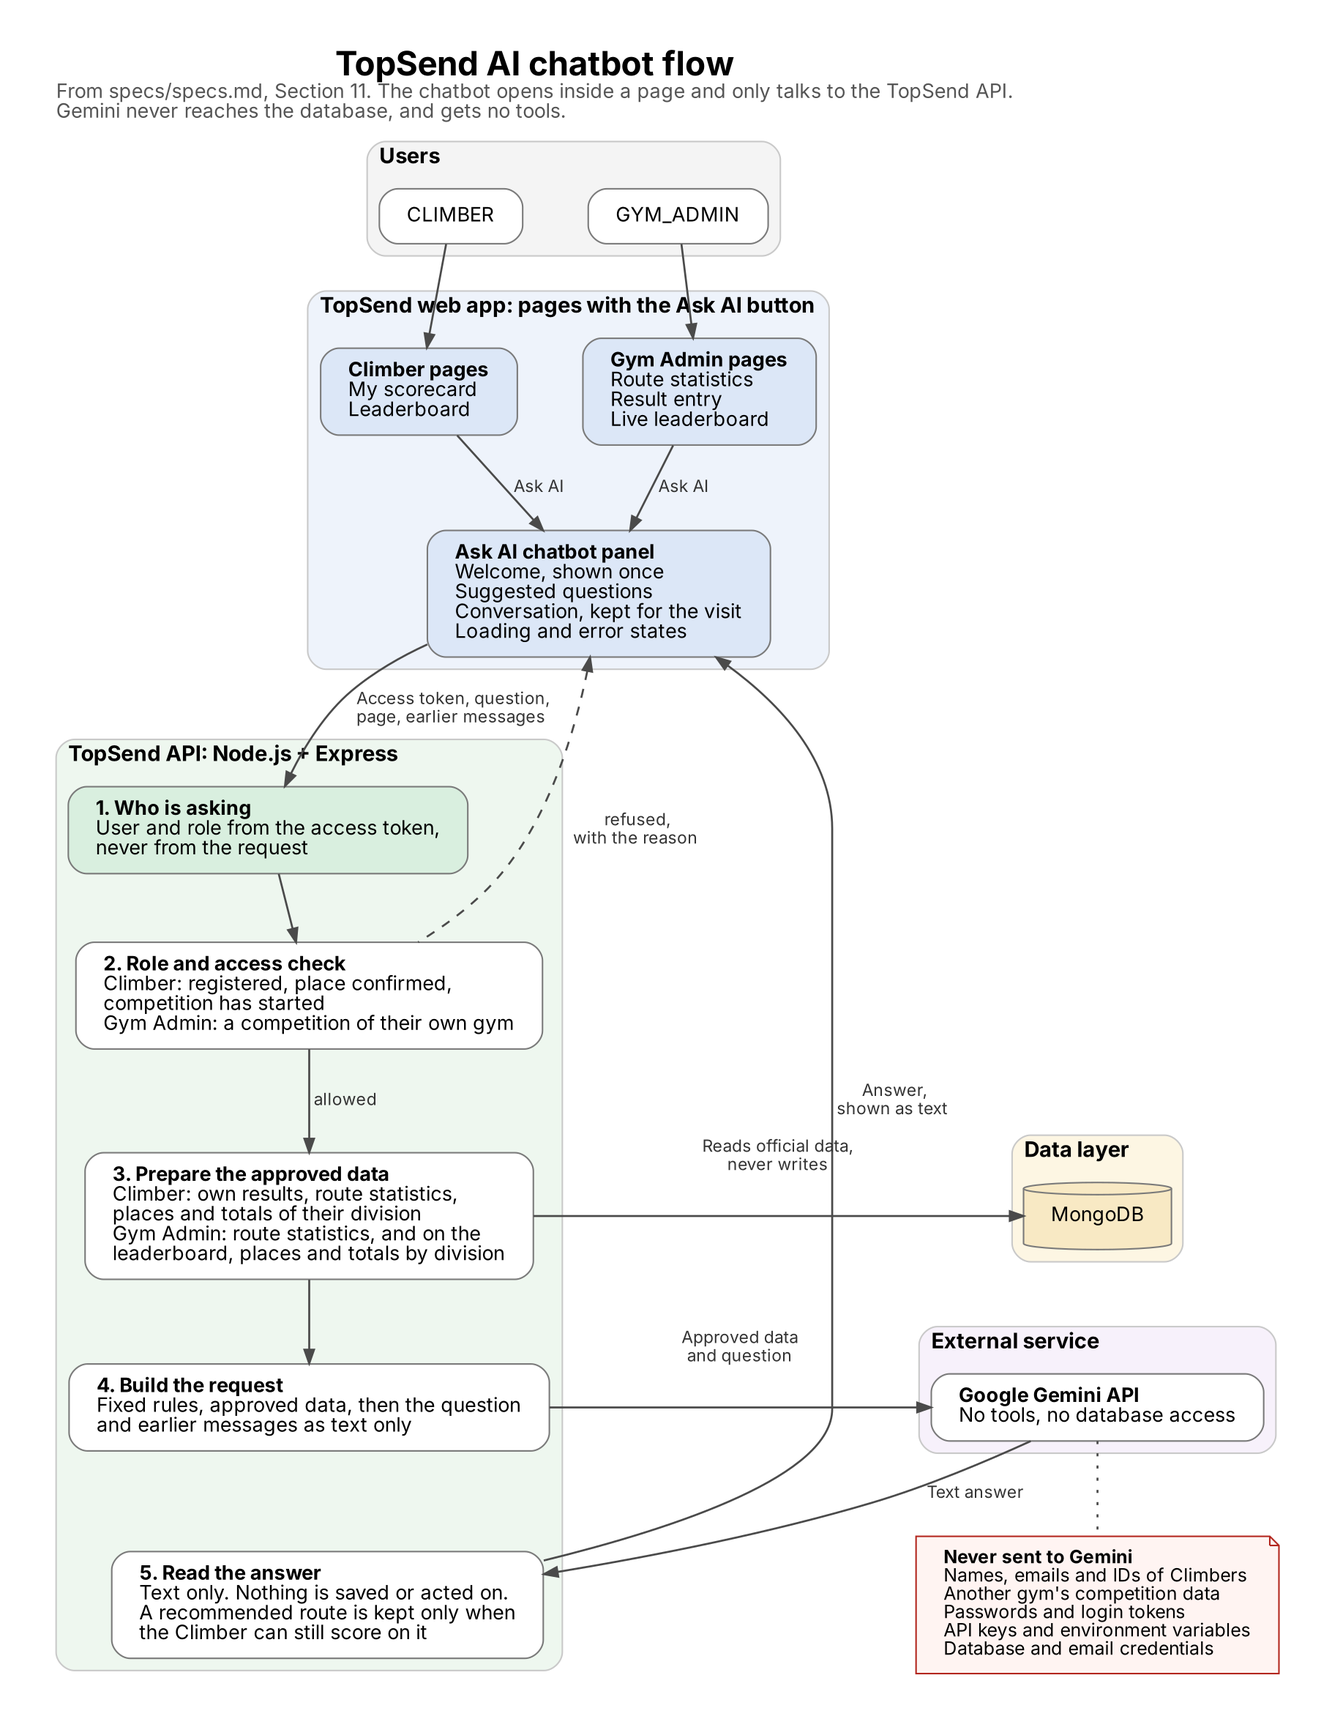
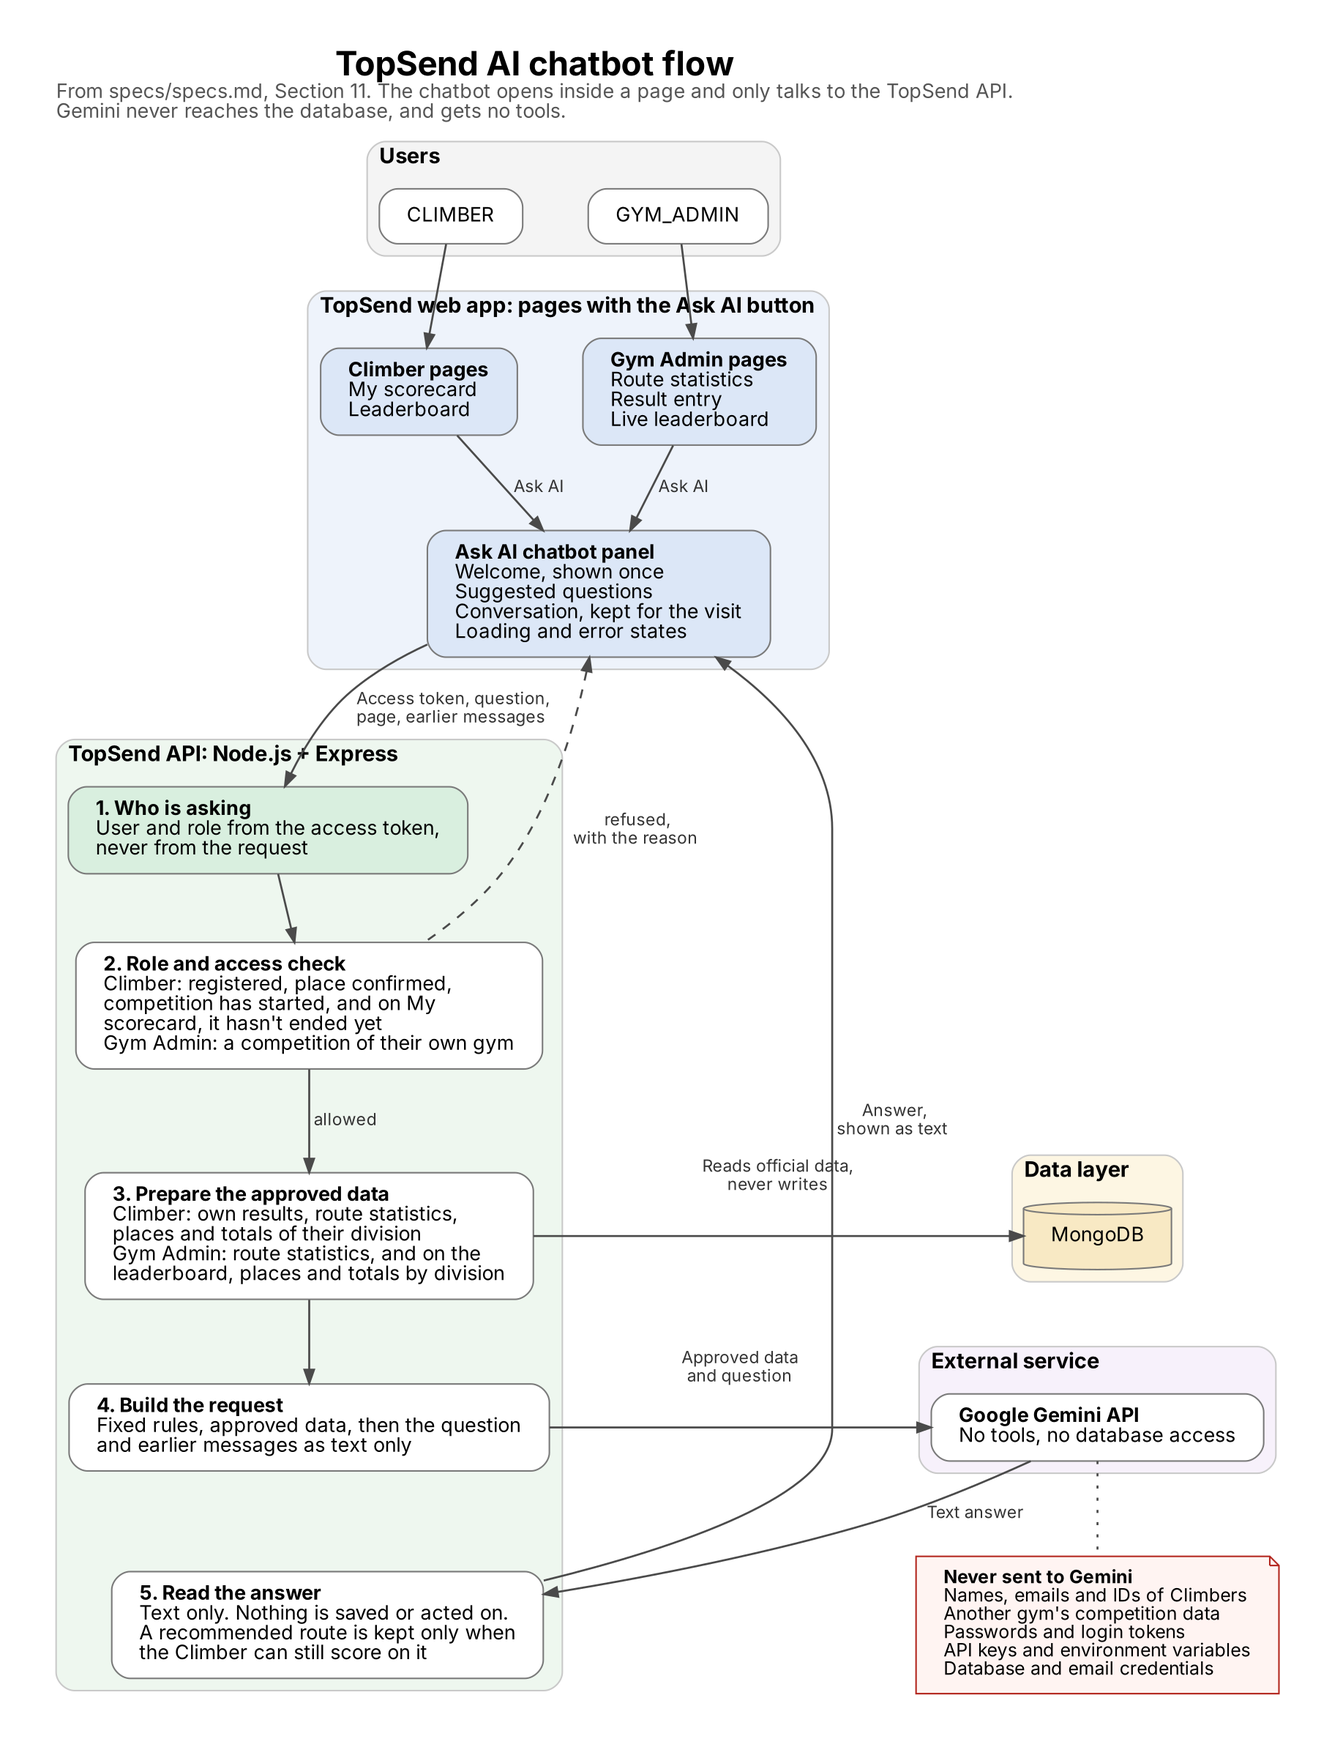
docs: name Result entry among the chatbot's pages and the end of a competition in every doc (#222)
The short lists of the chatbot's pages now include Result entry, as AC-022 does, and the README lists the chatbot with the built features instead of the planned ones. The domain rules, the domain guardrails, the personas and the AI chatbot flow now say a Climber's scorecard and its chatbot close at the end, and going back from the final leaderboard never returns to the scorecard.

diff --git a/specs/contracts/domain.md b/specs/contracts/domain.md
@@ -145,7 +145,7 @@ interface Competition {
 - `date` is a calendar date in Toronto, sent as `YYYY-MM-DD`. When a competition is created, or its date is changed, the date must be from today up to two years ahead.
 - `startTime` is the time the competition starts on its date, in Toronto time, as 24-hour `HH:mm`, such as `10:00`. Every new competition has one, and a Gym Administrator can change it. A competition saved before start times existed has none, and counts as starting at 12:00 a.m. on its date until one is set. The API also sends `startsAt`, the same moment as an ISO-8601 timestamp, so a browser in any time zone counts down to the right moment. The clocks changing in spring or fall never moves a competition's start: it stays at the time the Gym Administrator chose.
 - `endTime` is the time the competition ends on its date, in Toronto time, as 24-hour `HH:mm`, such as `18:00`, and it always comes after `startTime`. Every new competition has one, and a Gym Administrator can change it. A competition saved before end times existed has none, and counts as ending at the end of its date, 12:00 a.m. the next day, until one is set. The API also sends `endsAt`, the same moment as an ISO-8601 timestamp.
-- Until a PUBLISHED competition's start, a Climber can see its details and their registration status, and nothing else of it: their scorecard, the leaderboard, live updates, and the AI Route Assistant are refused with 409 `COMPETITION_NOT_STARTED`, and so is the public leaderboard for a Visitor. A Gym Administrator of its gym is never held back. A Climber records their own results from the start until the end time, and the server refuses them after it.
+- Until a PUBLISHED competition's start, a Climber can see its details and their registration status, and nothing else of it: their scorecard, the leaderboard, live updates, and the AI Route Assistant are refused with 409 `COMPETITION_NOT_STARTED`, and so is the public leaderboard for a Visitor. A Gym Administrator of its gym is never held back. A Climber records their own results from the start until the end time, and the server refuses them after it. From the end time their scorecard is closed too: the scorecard, its live updates, and its chatbot are refused with 409 `SCORECARD_CLOSED`, and the leaderboard shows them the final standings of every division. A CANCELLED competition's scorecard stays readable.
 - `capacity` is the maximum number of participants: a whole number from 1 to 1000, and never below the number of CONFIRMED registrations.
 - A new competition is a DRAFT with registration CLOSED. It's held at its gym, so `location` is always its gym's location, and a Gym Administrator can't change it. `createdBy` is the Gym Administrator who created it.
 - Opening registration on a DRAFT makes it PUBLISHED, so climbers can find it. Closing registration later keeps it PUBLISHED and stops new registrations.
@@ -348,8 +348,8 @@ interface LoginThrottle {
 - A non-authorized user must never observe private scorecards or competition management functions.
 - A competition with registration CLOSED, or one that is full, stays closed to further valid registrations.
 - A Climber's current location is only used for the competition search that asks for it. It's never stored, so it isn't part of any entity.
-- Before a competition's start time, a Climber sees a countdown to it, and only their registration status. The server applies the same rule to every request and live connection. While the competition is on, a Climber sees a countdown to its end time, when their scoring closes.
-- The AI Route Assistant is a chatbot inside the scorecard, leaderboard, and statistics pages. It receives the least data a page's questions need, taken from the entities above after the role and access check, and it never receives a name, an email, an ID, a credential, or anything from another gym. Its conversations are not stored, so they aren't part of any entity.
+- Before a competition's start time, a Climber sees a countdown to it, and only their registration status. The server applies the same rule to every request and live connection. While the competition is on, a Climber sees a countdown to its end time, when their scoring closes. They're warned 15 minutes and 5 minutes before it, and at the end time their scorecard closes for good and they see the final leaderboard.
+- The AI Route Assistant is a chatbot inside the scorecard, leaderboard, Route statistics, and Result entry pages. It receives the least data a page's questions need, taken from the entities above after the role and access check, and it never receives a name, an email, an ID, a credential, or anything from another gym. Its conversations are not stored, so they aren't part of any entity.
 
 ## 5. Key domain decisions
 

diff --git a/docs/Requirements/requirements.md b/docs/Requirements/requirements.md
@@ -95,7 +95,7 @@ This feature area uses competition results to calculate route statistics and pro
 
 | ID | Requirement | Related User Stories | Acceptance Conditions |
 |----|-------------|----------------------|-----------------------|
-| FR-012 | The system shall calculate route statistics from official competition results and allow Gym Administrators and Climbers to use AI-assisted features that explain available competition data and provide route recommendations, through a chatbot inside the scorecard, leaderboard, and statistics pages. | US-022, US-023, US-024, US-033 | 1. The system can calculate completion rate, average attempts, and flash rate from recorded results. 2. Gym Administrators can ask questions about route performance. 3. Climbers can ask for route recommendations based on available competition data. 4. Climbers can ask about the current point difference between their score and a target ranking. 5. AI responses use available official competition information. 6. AI cannot change official scores, results, rankings, winners, or route grades. 7. The chatbot opens on My scorecard and the leaderboard for Climbers, and on Route statistics, Result entry, and the Live leaderboard for Gym Administrators, and already knows the competition, the page, and the user's role. 8. A first-time welcome and clickable suggested questions show what can be asked. 9. AI cannot reveal another user's private information, another gym's data, passwords, tokens, API keys, or server settings, and none of them is sent to it. |
+| FR-012 | The system shall calculate route statistics from official competition results and allow Gym Administrators and Climbers to use AI-assisted features that explain available competition data and provide route recommendations, through a chatbot inside the scorecard, leaderboard, Route statistics, and Result entry pages. | US-022, US-023, US-024, US-033 | 1. The system can calculate completion rate, average attempts, and flash rate from recorded results. 2. Gym Administrators can ask questions about route performance. 3. Climbers can ask for route recommendations based on available competition data. 4. Climbers can ask about the current point difference between their score and a target ranking. 5. AI responses use available official competition information. 6. AI cannot change official scores, results, rankings, winners, or route grades. 7. The chatbot opens on My scorecard and the leaderboard for Climbers, and on Route statistics, Result entry, and the Live leaderboard for Gym Administrators, and already knows the competition, the page, and the user's role. 8. A first-time welcome and clickable suggested questions show what can be asked. 9. AI cannot reveal another user's private information, another gym's data, passwords, tokens, API keys, or server settings, and none of them is sent to it. |
 
 ---
 

diff --git a/specs/contracts/interfaces.md b/specs/contracts/interfaces.md
@@ -1209,7 +1209,7 @@ From a PUBLISHED competition's end (`endsAt`), the results are final and a Climb
 }
 ```
 
-- The page moves the Climber to the final leaderboard and replaces the scorecard in the browser's history, so going back, opening the address, or reloading lands on the leaderboard. The Climber's result routes keep answering 409 `SCORING_CLOSED`.
+- The page moves the Climber to the final leaderboard and replaces the scorecard in the browser's history, so going back never returns to it, and opening the address or reloading lands on the leaderboard. The Climber's result routes keep answering 409 `SCORING_CLOSED`.
 - The leaderboard stays open after the end. A CANCELLED competition's scorecard stays readable, since it has no final results.
 
 #### GET /api/competitions/{competitionId}/leaderboard
@@ -1368,7 +1368,7 @@ Errors: 404 `COMPETITION_NOT_FOUND` for a draft or a competition that doesn't ex
 
 ### 1.14 AI route assistant
 
-The AI Route Assistant is a chatbot inside the scorecard, leaderboard, and statistics pages, with no page of its own (section 11 of the spec). A Climber's chatbot calls the two /api/competitions routes below (US-033), and a Gym Administrator's the two /api/gym-admin routes after them (US-023). Both call the Google Gemini API from the backend (services/geminiClient.js), with the key in `GEMINI_API_KEY` (server/.env.example). They only read official data, Gemini gets no tools, and nothing an answer says is saved or acted on. While `GEMINI_API_KEY` is empty, both are off.
+The AI Route Assistant is a chatbot inside the scorecard, leaderboard, Route statistics, and Result entry pages, with no page of its own (section 11 of the spec). A Climber's chatbot calls the two /api/competitions routes below (US-033), and a Gym Administrator's the two /api/gym-admin routes after them (US-023). Both call the Google Gemini API from the backend (services/geminiClient.js), with the key in `GEMINI_API_KEY` (server/.env.example). They only read official data, Gemini gets no tools, and nothing an answer says is saved or acted on. While `GEMINI_API_KEY` is empty, both are off.
 
 Both POST bodies take the same two chatbot fields:
 

diff --git a/specs/specs.md b/specs/specs.md
@@ -47,7 +47,7 @@ The platform must support the approved roles: ADMIN, GYM_ADMIN, CLIMBER, and VIS
 - Scorecards and route statistics
 - A countdown to each competition's start, when its scorecard and leaderboard open to Climbers
 - Competition history
-- AI Route Assistant chatbot inside the scorecard, leaderboard, and statistics pages
+- AI Route Assistant chatbot inside the scorecard, leaderboard, Route statistics, and Result entry pages
 - A step-by-step onboarding tutorial for each role, the first time a user opens TopSend
 - Visitor landing page introducing TopSend
 - Responsive web experience for desktop, tablet, and mobile
@@ -760,7 +760,7 @@ This file is the approved baseline for implementation planning and should be rev
 | A Climber's scorecard, leaderboard, and AI Route Assistant open at the start time | FR-011, FR-012, Section 7, AC-021 | US-020, US-031, US-032, US-033 |
 | The scorecard is a scrollable scorecard sheet over the competition's background, without a Flash column, with attempts shown against the limit | FR-011, AC-017 | US-031 |
 | A Climber's leaderboard shows their own division, and only a Gym Administrator or the public display chooses a division | FR-011, AC-016 | US-020, US-032 |
-| The AI Route Assistant is a chatbot inside the scorecard, leaderboard, and statistics pages, with a first-time welcome and suggested questions, instead of separate pages | FR-012, Section 11, AC-019, AC-022 | US-023, US-033 |
+| The AI Route Assistant is a chatbot inside the scorecard, leaderboard, Route statistics, and Result entry pages, with a first-time welcome and suggested questions, instead of separate pages | FR-012, Section 11, AC-019, AC-022 | US-023, US-033 |
 | Text and controls are 15% smaller on phones | NR-005 | All stories with a logged-in page |
 | A step-by-step onboarding tutorial for each role opens the first time a user opens TopSend, spotlights the feature each step explains, and opens again from Onboarding tips | FR-001, Section 7, AC-023 | US-037 |
 | A Climber can set the opacity of the scorecard sheet's white background from 10% to 100%, so the background shows through it | FR-011, AC-017 | US-031 |

diff --git a/.github/skills/topsend-domain-guardrails/SKILL.md b/.github/skills/topsend-domain-guardrails/SKILL.md
@@ -30,7 +30,7 @@ A Climber's current location, from Use my location on Discover competitions, is 
 - Leaderboards and scorecards derive from official saved results, not AI output.
 - Keep competition, gym, division, route, registration, and result associations scoped to their documented owners and selected competition.
 - A division's name is one of Open, Beginner, Youth, or Advanced. Do not add a free-text division name.
-- Every new competition has a start time on its date, in Toronto time. Until a PUBLISHED competition starts, a Climber sees a countdown and only their registration status: the server refuses their scorecard, the leaderboard, live updates, and the AI Route Assistant with 409 `COMPETITION_NOT_STARTED`, and a Gym Administrator of the gym is never held back. Enforce this on the server, not only by hiding links.
+- Every new competition has a start time on its date, in Toronto time. Until a PUBLISHED competition starts, a Climber sees a countdown and only their registration status: the server refuses their scorecard, the leaderboard, live updates, and the AI Route Assistant with 409 `COMPETITION_NOT_STARTED`, and a Gym Administrator of the gym is never held back. Every new competition also has an end time after its start. From the end, the server refuses a Climber's results with 409 `SCORING_CLOSED`, and their scorecard, its live updates, and its chatbot with 409 `SCORECARD_CLOSED`, and their leaderboard shows the final standings of every division. Enforce this on the server, not only by hiding links.
 - If a story or contract does not define the relevant permission, mutation, visibility, or failure behavior, surface the gap and ask rather than inventing it.
 
 ## TopSend AI Route Assistant

diff --git a/docs/Roles_and_Persona/Roles_and_Persona.md b/docs/Roles_and_Persona/Roles_and_Persona.md
@@ -81,7 +81,7 @@ Medium - comfortable using standard websites, mobile applications, and common ad
 - Is connected to a specific registered climbing gym.
 - Must receive approval before receiving GYM_ADMIN access.
 - One gym can have multiple Gym Administrator accounts.
-- Can create competitions with a date and start time, divisions chosen from Open, Beginner, Youth, and Advanced, and boulder problems.
+- Can create competitions with a date, a start time and an end time, divisions chosen from Open, Beginner, Youth, and Advanced, and boulder problems.
 - Can record official results and manage competition information.
 - Can view statistics created from official competition results.
 - Uses the shared TopSend Authentication subsystem.
@@ -124,7 +124,7 @@ Low to Medium - comfortable using normal websites and mobile applications but do
 - Can participate in competitions hosted by different registered gyms.
 - Can discover events using List View or the Google Maps-based Map View.
 - Can access competitions they have registered for through My Events.
-- Can view their own official results, scorecard, and current ranking in their division, once the competition has started. Before that, their event shows a countdown to the start.
+- Can view their own official results, scorecard, and current ranking in their division, once the competition has started. Before that, their event shows a countdown to the start. After it ends, their scorecard closes, and they see the final standings of every division.
 - Cannot modify official competition results or scoring.
 - Uses the shared TopSend Authentication subsystem.
 

diff --git a/.github/agents/topsend-story-implementer.agent.md b/.github/agents/topsend-story-implementer.agent.md
@@ -51,7 +51,7 @@ Use only the exact approved role identifiers: `ADMIN`, `GYM_ADMIN`, `CLIMBER`, a
 
 ## TopSend AI Route Assistant
 
-The Google Gemini integration is TopSend's application feature, the AI Route Assistant, a chatbot inside the scorecard, leaderboard, and statistics pages; it is not GitHub Copilot. Keep its use advisory and based on available official competition data. It must never modify official scores, results, rankings, winners, route grades, or scoring rules. Do not let generated AI output enter an authoritative write path. If the requested story touches AI and its read/write boundary or source data is unclear, stop and ask.
+The Google Gemini integration is TopSend's application feature, the AI Route Assistant, a chatbot inside the scorecard, leaderboard, Route statistics, and Result entry pages; it is not GitHub Copilot. Keep its use advisory and based on available official competition data. It must never modify official scores, results, rankings, winners, route grades, or scoring rules. Do not let generated AI output enter an authoritative write path. If the requested story touches AI and its read/write boundary or source data is unclear, stop and ask.
 
 ## Testing and completion
 

diff --git a/specs/contracts/events.md b/specs/contracts/events.md
@@ -206,7 +206,7 @@ Not built yet.
 
 ## 10. Event: AiRouteRecommendationRequested
 
-Built as REST requests from the chatbot inside the scorecard, leaderboard, and statistics pages (US-023, US-033), not as a published event: `POST /api/competitions/:competitionId/route-assistant` for a Climber and `POST /api/gym-admin/competitions/:competitionId/route-assistant` for a Gym Administrator (interfaces.md, section 1.14). Each request carries what this event describes:
+Built as REST requests from the chatbot inside the scorecard, leaderboard, Route statistics, and Result entry pages (US-023, US-033), not as a published event: `POST /api/competitions/:competitionId/route-assistant` for a Climber and `POST /api/gym-admin/competitions/:competitionId/route-assistant` for a Gym Administrator (interfaces.md, section 1.14). Each request carries what this event describes:
 
 ```json
 {

diff --git a/README.md b/README.md
@@ -67,6 +67,11 @@ The current TopSend implementation includes the main features completed during I
 - Countdown to the competition's start, when the scorecard and leaderboard open
 - Warnings 15 and 5 minutes before the end, then the final leaderboard once the scorecard closes
 
+### AI Route Assistant Chatbot
+
+- For Gym Administrators, inside the Route statistics, Result entry, and Live leaderboard pages
+- For Climbers, inside the scorecard and leaderboard pages
+
 ### Planned Features
 
 Later development includes features such as:
@@ -78,8 +83,6 @@ Later development includes features such as:
 - Competition history
 - Climber scorecards
 - Rankings
-- AI Route Assistant chatbot for Gym Administrators, inside the Route statistics, Result entry, and Live leaderboard pages
-- AI Route Assistant chatbot for Climbers, inside the scorecard and leaderboard pages
 
 ---
 

diff --git a/specs/implementation-plan.md b/specs/implementation-plan.md
@@ -185,7 +185,7 @@ flowchart TD
 - Authorized files: analytics service, recommendation engine, AI adapter, route stats query service
 - Inputs from prior waves: T-010, T-008
 - Outputs/contracts: route-statistics output, AI prompt context for each page the chatbot opens on, recommendation response model
-- Definition of done: AI uses official competition data only; no direct mutation of official results or grades; the chatbot opens inside the scorecard, leaderboard, and statistics pages
+- Definition of done: AI uses official competition data only; no direct mutation of official results or grades; the chatbot opens inside the scorecard, leaderboard, Route statistics, and Result entry pages
 - Tests required: route stats tests, AI guardrail tests, prompt-injection tests, recommendation tests
 
 ### T-012: Scorecard and competition discovery UX
